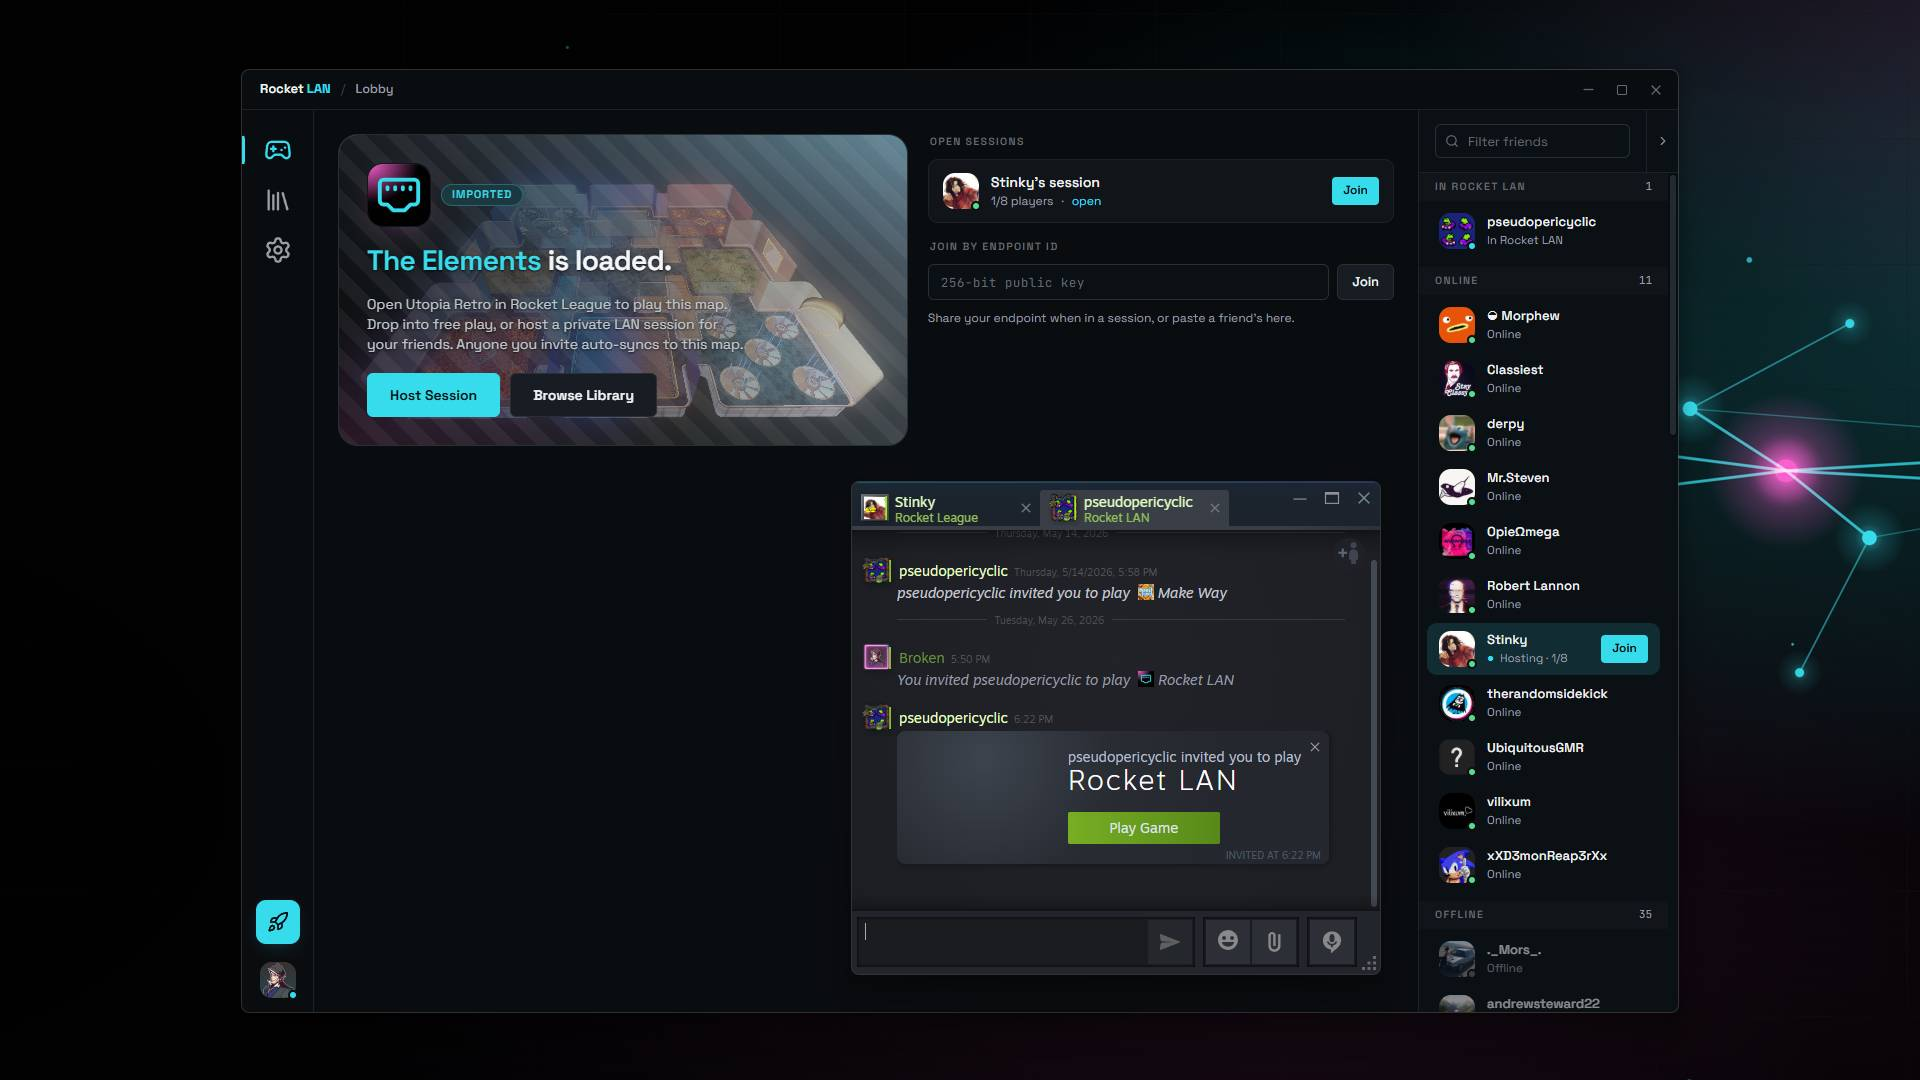
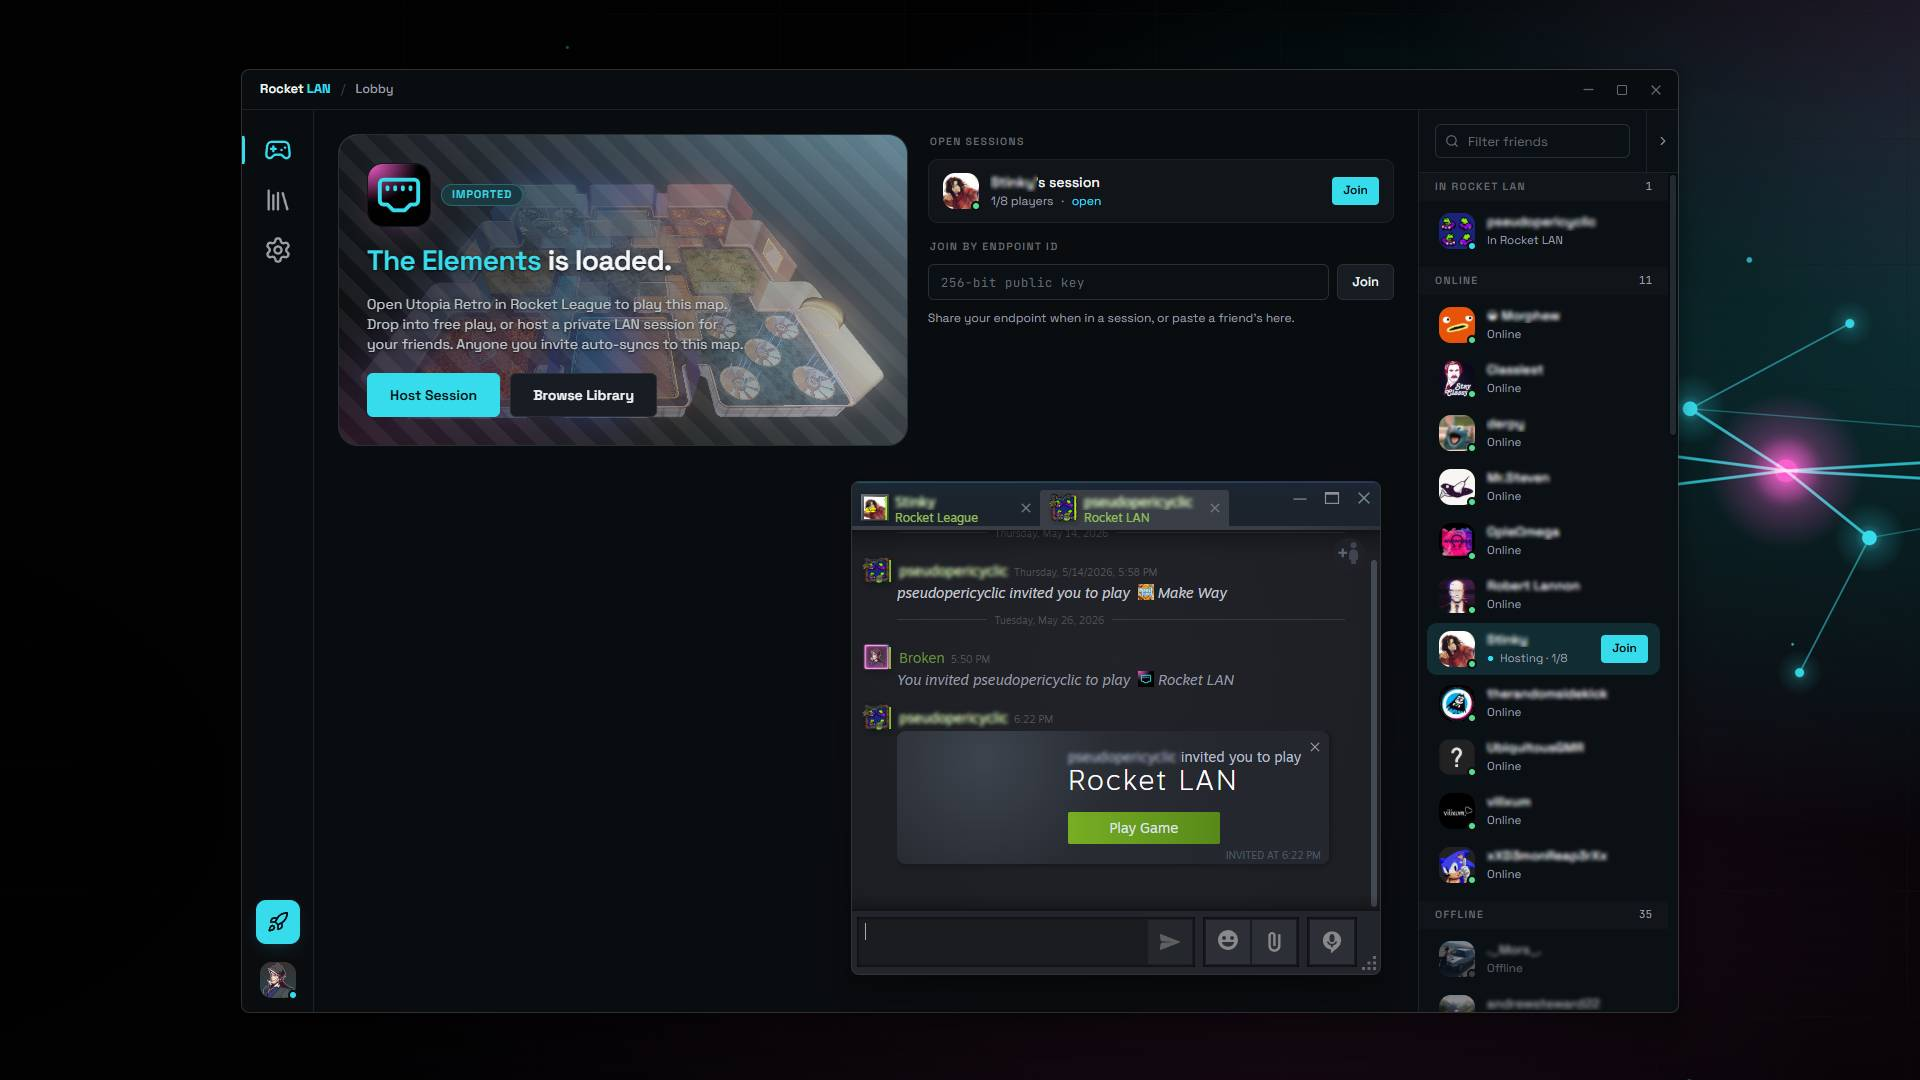
feat(site): replaced screenshots in slideshow

diff --git a/docs/roadmap.html b/docs/roadmap.html
@@ -49,7 +49,7 @@
         <ul>
           <li><strong>Host &amp; join sessions</strong> via Steam friends, with open/invite-only visibility.</li>
           <li><strong>Mesh peer-to-peer</strong> over QUIC with encrypted relay fallback.</li>
-          <li><strong>Reconnect resilience</strong>, dropped peers retry for ~30s before being removed.</li>
+          <li><strong>Reconnect resilience</strong> dropped peers retry for ~30s before being removed.</li>
           <li><strong>Steam rich presence</strong> so friends see and join you natively.</li>
         </ul>
       </div>